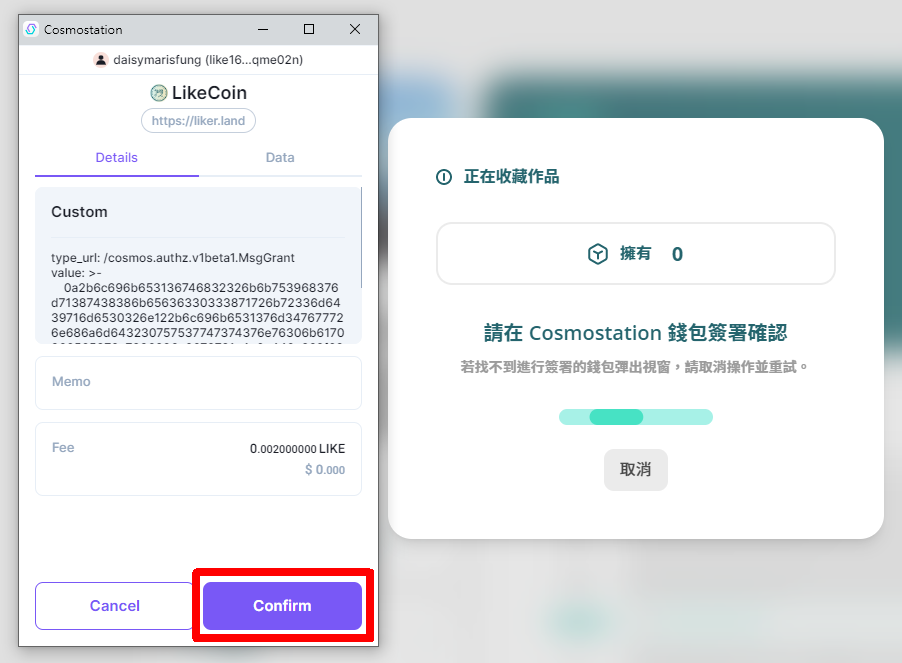
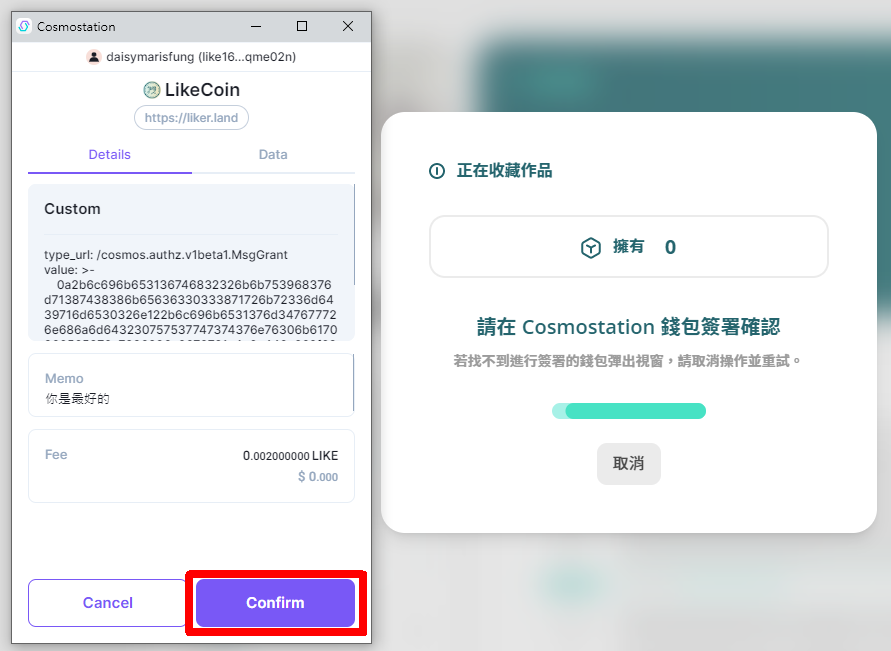
GitBook: [#4292] 收集 Writing NFT

diff --git a/general-guides/writing-nft/collect-writing-nft/README.md b/general-guides/writing-nft/collect-writing-nft/README.md
@@ -118,7 +118,7 @@ description: 如何收集 Writing NFT
 
 ## 以 LikeCoin 於桌面電腦收集 Writing NFT <a href="#likecoin" id="likecoin"></a>
 
-你當然可以使用 LikeCoin 購買 Writing NFT。
+你當然可以使用 LikeCoin 購買 Writing NFT。支持者除了用購買的行動去鼓勵創作者以外，亦可以留言激勵他們，而且留言會一直依附在作品上，被記錄在這個購買動作的鏈上記錄裡的備註欄位。
 
 ### 使用錢包登入
 
@@ -132,9 +132,15 @@ description: 如何收集 Writing NFT
 
 <figure><img src="../../../.gitbook/assets/Buy NFT 04.png" alt=""><figcaption></figcaption></figure>
 
-點 Writing NFT 價格或「立即收藏」後彈出收藏作品頁面。點「用 LIKE 購買」後彈出 Keplr 視窗，再點「Approve」確認購買。
+點 Writing NFT 價格或「立即收藏」後彈出收藏作品頁面，點「留言給創作者」並輸入給創作者的訊息。
 
 <figure><img src="../../../.gitbook/assets/Buy NFT 20.png" alt=""><figcaption></figcaption></figure>
+
+輸入完成後點「用 LIKE 購買」。
+
+<figure><img src="../../../.gitbook/assets/Buy NFT 20.1.png" alt=""><figcaption></figcaption></figure>
+
+彈出 Keplr 視窗，再點「Approve」確認購買。
 
 <figure><img src="../../../.gitbook/assets/Buy NFT 07.png" alt=""><figcaption></figcaption></figure>
 
@@ -144,9 +150,15 @@ description: 如何收集 Writing NFT
 
 <figure><img src="../../../.gitbook/assets/Buy NFT 21.png" alt=""><figcaption></figcaption></figure>
 
-點 Writing NFT 價格或「立即收藏」後彈出收藏作品頁面。點「用 LIKE 購買」後彈出 Comostation 視窗，再點「Confirm」確認購買。
+點 Writing NFT 價格或「立即收藏」後彈出收藏作品頁面，點「留言給創作者」並輸入給創作者的訊息。
 
 <figure><img src="../../../.gitbook/assets/Buy NFT 20.png" alt=""><figcaption></figcaption></figure>
+
+輸入完成後點「用 LIKE 購買」。
+
+<figure><img src="../../../.gitbook/assets/Buy NFT 20.1.png" alt=""><figcaption></figcaption></figure>
+
+彈出 Comostation 視窗，再點「Confirm」確認購買。
 
 <figure><img src="../../../.gitbook/assets/Buy NFT 14.png" alt=""><figcaption></figcaption></figure>
 
@@ -174,7 +186,7 @@ description: 如何收集 Writing NFT
 
 點 Writing NFT 價格或「立即收藏」後彈出收藏作品頁面。點「用 LIKE 購買」後 Liker Land app 彈出 Wallet Connect 視窗，再點「允許」確認購買。
 
-<figure><img src="../../../.gitbook/assets/Buy NFT 20.png" alt=""><figcaption></figcaption></figure>
+<figure><img src="broken-reference" alt=""><figcaption></figcaption></figure>
 
 <figure><img src="../../../.gitbook/assets/Buy NFT 11.png" alt=""><figcaption></figcaption></figure>
 
